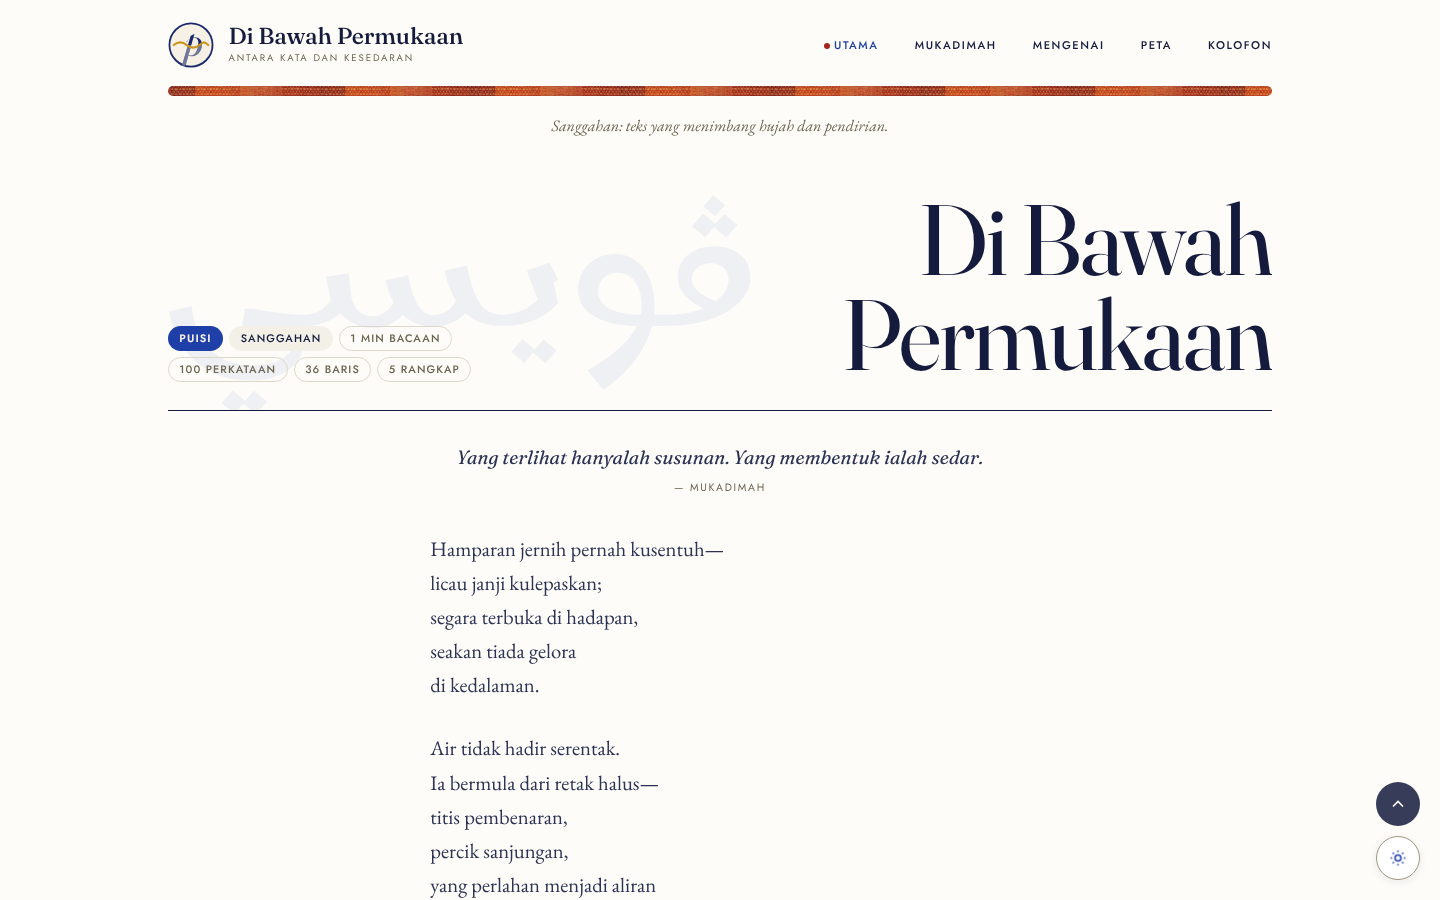
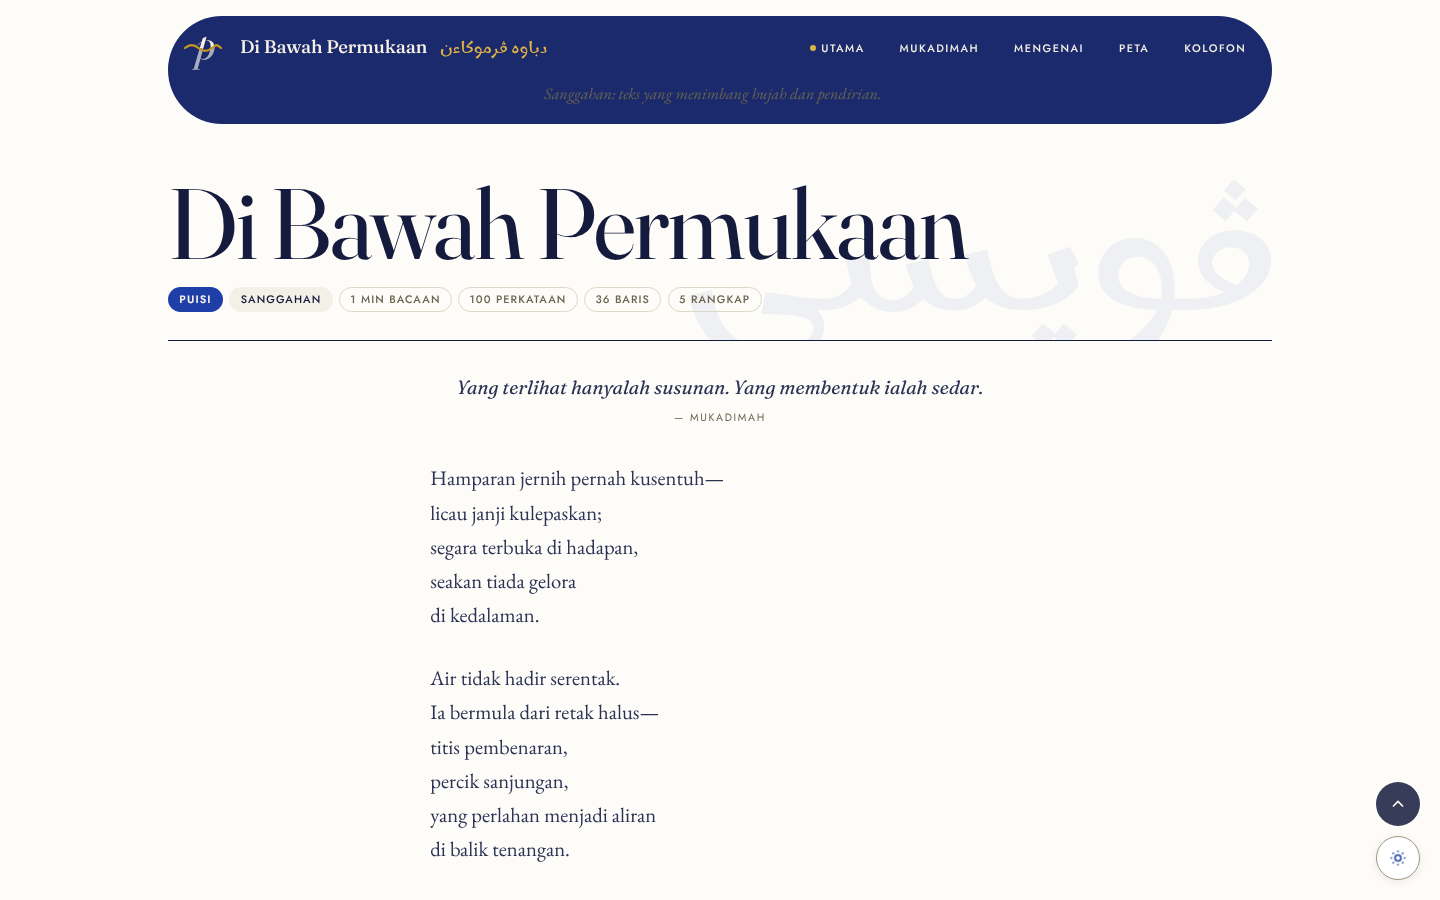
Header: indigo pill bar; left-align hero and work titles
The masthead is now a slim indigo pill (inverse mark, site name, Jawi,
text navigation with a gold dot) that brackets the page with the footer.
Hero and single-work titles are set left; the songket band is removed.

Claude-Session: https://claude.ai/code/session_01Er8Hpy67qX5wHknT6MnoT1

Changed region(s): [[0.0938, 0.1867, 0.9062, 0.4667], [0.0938, 0.0, 0.9062, 0.1556], [0.2812, 0.4978, 0.6875, 0.9956]]

diff --git a/assets/css/frontend.css b/assets/css/frontend.css
@@ -267,56 +267,59 @@ a:focus-visible, button:focus-visible { border-radius: var(--bwp-pill); }
 .bwp-main { display: block; }
 
 /* ═══════════════════════════════════════════════════════════
-   SITE HEADER — masthead: lockup | text nav, songket headband beneath
+   SITE HEADER — indigo pill bar (brackets the page with the footer)
+   lockup: mark · site name · Jawi  |  text nav with a gold dot
    ═══════════════════════════════════════════════════════════ */
 
 .bwp-site-header {
+    --h-ink: #f6f1e4; --h-dim: #c7bd9f; --h-gold: #e0b344;
     display: grid;
     grid-template-columns: 1fr auto;
-    grid-template-areas: "brand nav" "band band" "blurb blurb";
+    grid-template-areas: "brand nav" "blurb blurb";
     align-items: center;
     gap: 0 2rem;
-    padding: 1.4rem 0 0;
-    margin-bottom: clamp(2rem, 5vw, 3.25rem);
+    margin: 1rem 0 clamp(2rem, 5vw, 3.25rem);
+    padding: 0 1.6rem 0 .7rem;
+    min-height: 64px;
+    border-radius: var(--bwp-pill);
+    background: #1a2a6c;
+    color: var(--h-ink);
 }
-.bwp-brand { grid-area: brand; display: inline-flex; align-items: center; gap: .9rem; color: var(--bwp-text); padding-bottom: 1.1rem; }
-.bwp-brand:hover { color: var(--bwp-link); }
-.bwp-brand__mark { width: 46px; height: 46px; flex: none; }
-.bwp-brand__text { display: flex; flex-direction: column; gap: .15rem; }
+.bwp-brand { grid-area: brand; display: inline-flex; align-items: center; gap: .8rem; color: var(--h-ink); min-height: 64px; }
+.bwp-brand:hover { color: var(--h-gold); }
+.bwp-brand__mark { width: 48px; height: 48px; flex: none; }
+.bwp-brand__text { display: flex; align-items: baseline; gap: .8rem; flex-wrap: wrap; }
 .bwp-site-header__title {
     margin: 0;
     font-family: var(--bwp-font-display);
-    font-size: 1.45rem; font-weight: 500; letter-spacing: -.005em;
+    font-size: 1.15rem; font-weight: 500; letter-spacing: -.005em;
     line-height: 1; color: inherit;
 }
-.bwp-site-header__tagline { font-family: var(--bwp-font-ui); font-size: .6rem; letter-spacing: .2em; text-transform: uppercase; color: var(--bwp-muted); }
-.bwp-site-header__section { display: none; }
+.bwp-site-header__jawi { font-family: var(--bwp-font-jawi); font-size: 1rem; line-height: 1; color: var(--h-gold); }
+.bwp-site-header__tagline, .bwp-site-header__section, .bwp-site-header__band { display: none; }
 
 .bwp-nav-toggle { display: none; }
-.bwp-nav { grid-area: nav; align-self: center; padding-bottom: 1.1rem; }
-.bwp-nav__list { list-style: none; margin: 0; padding: 0; display: flex; flex-wrap: wrap; gap: .25rem 1.6rem; }
+.bwp-nav { grid-area: nav; }
+.bwp-nav__list { list-style: none; margin: 0; padding: 0; display: flex; flex-wrap: wrap; gap: 0 1.5rem; }
 .bwp-nav__list li { margin: 0; position: relative; }
 .bwp-nav__list a {
-    display: inline-flex; align-items: center; gap: .4em;
-    padding: .6em 0; min-height: 36px;
+    display: inline-flex; align-items: center; gap: .45em;
+    padding: 0; min-height: 44px;
     border: none; border-radius: 0; background: transparent;
-    font-family: var(--bwp-font-ui); font-size: .7rem; font-weight: 500; letter-spacing: .14em; text-transform: uppercase;
-    color: var(--bwp-text); white-space: nowrap;
+    font-family: var(--bwp-font-ui); font-size: .68rem; font-weight: 500; letter-spacing: .14em; text-transform: uppercase;
+    color: var(--h-ink); white-space: nowrap;
     transition: color .15s;
 }
-.bwp-nav__list a::before { content: ''; width: 6px; height: 6px; border-radius: 50%; background: var(--bwp-accent); opacity: 0; transform: scale(.4); transition: opacity .15s, transform .15s; }
-.bwp-nav__list a:hover { color: var(--bwp-link); }
+.bwp-nav__list a::before { content: ''; width: 6px; height: 6px; border-radius: 50%; background: var(--h-gold); opacity: 0; transform: scale(.4); transition: opacity .15s, transform .15s; }
+.bwp-nav__list a:hover { color: var(--h-gold); }
 .bwp-nav__list a:hover::before { opacity: .6; transform: none; }
-.bwp-nav__list .current-menu-item > a,
-.bwp-nav__list .current_page_item > a,
-.bwp-nav__list .current-menu-ancestor > a { color: var(--bwp-link); }
 .bwp-nav__list .current-menu-item > a::before,
 .bwp-nav__list .current_page_item > a::before,
-.bwp-nav__list .current-menu-ancestor > a::before { opacity: 1; transform: none; background: var(--bwp-rubric); }
+.bwp-nav__list .current-menu-ancestor > a::before { opacity: 1; transform: none; }
 
 /* dropdowns */
 .bwp-nav__list .sub-menu {
-    display: none; position: absolute; top: calc(100% + 4px); left: -1rem;
+    display: none; position: absolute; top: calc(100% + 2px); left: -1rem;
     min-width: 12em; margin: 0; padding: 6px; list-style: none;
     background: var(--bwp-bg-raised); border: 1px solid var(--bwp-border);
     border-radius: var(--bwp-radius); box-shadow: var(--bwp-shadow-lg);
@@ -325,21 +328,15 @@ a:focus-visible, button:focus-visible { border-radius: var(--bwp-pill); }
 .bwp-nav__list li:hover > .sub-menu,
 .bwp-nav__list li:focus-within > .sub-menu,
 .bwp-nav__list li[data-touch-open="1"] > .sub-menu { display: block; }
-.bwp-nav__list .sub-menu a { display: flex; width: 100%; white-space: normal; padding: .6em 1rem; border-radius: var(--bwp-radius-sm); }
-.bwp-nav__list .sub-menu a:hover { background: var(--bwp-bg-subtle); }
-
-/* songket headband — a woven rule under the masthead (public-domain textile, see assets/img/textures/CREDITS.txt) */
-.bwp-site-header__band {
-    grid-area: band; height: 10px; border-radius: var(--bwp-pill);
-    background: url('../img/textures/songket-band.jpg') center / auto 100% repeat-x;
-    box-shadow: inset 0 0 0 1px rgba(21, 27, 61, .08);
-}
+.bwp-nav__list .sub-menu a { display: flex; width: 100%; white-space: normal; padding: .6em 1rem; border-radius: var(--bwp-radius-sm); color: var(--bwp-text); min-height: 40px; }
+.bwp-nav__list .sub-menu a::before { display: none; }
+.bwp-nav__list .sub-menu a:hover { background: var(--bwp-bg-subtle); color: var(--bwp-link); }
 
 /* category blurb under the header on single works */
 .bwp-chapter-blurb {
     grid-area: blurb;
     max-width: var(--bwp-measure);
-    margin: 1rem auto 0;
+    margin: 0 auto; padding: 0 1rem 1rem; color: var(--h-dim);
     font-style: italic; font-size: 1rem; text-align: center;
     color: var(--bwp-muted);
 }
@@ -390,8 +387,8 @@ a:focus-visible, button:focus-visible { border-radius: var(--bwp-pill); }
 }
 .bwp-book-title__meta span + span::before { content: '·'; margin: 0 .6em; color: var(--bwp-accent); }
 @media screen and (min-width: 52em) {
-    .bwp-book-title__name { grid-column: 3 / span 10; text-align: right; }
-    .bwp-book-title__desc { grid-column: 1 / span 7; grid-row: 2; align-self: end; }
+    .bwp-book-title__name { grid-column: 1 / span 10; }
+    .bwp-book-title__desc { grid-column: 1 / span 7; grid-row: 2; }
     .bwp-book-title__meta { grid-column: 1 / span 7; grid-row: 3; }
     .bwp-book-title__jawi { right: 0; top: 50%; transform: translateY(-58%); font-size: clamp(6rem, 12vw, 10.5rem); }
 }
@@ -623,8 +620,9 @@ body.bwp-toc-masonry .bwp-toc__item { width: 49%; margin-bottom: .75rem; }
     text-wrap: balance;
 }
 @media screen and (min-width: 52em) {
-    .bwp-work__meta  { grid-column: 1 / span 4; align-self: end; }
-    .bwp-work__title { grid-column: 5 / span 8; text-align: right; }
+    .bwp-work__meta  { grid-column: 1 / span 12; order: 2; flex-direction: row; align-items: center; flex-wrap: wrap; gap: .7rem 1rem; }
+    .bwp-work__title { grid-column: 1 / span 11; order: 1; }
+    .bwp-work__opening[data-jawi]::before { left: auto; right: -.05em; }
 }
 
 /* analytics bar → chips */
@@ -1194,30 +1192,33 @@ html.bwp-night .bwp-badge--karmina, body.bwp-night .bwp-badge--karmina { color: 
 
     .bwp-site-header {
         grid-template-columns: 1fr auto;
-        grid-template-areas: "brand toggle" "nav nav" "band band" "blurb blurb";
-        gap: 0 1rem;
-        padding-top: 1rem;
-        margin-bottom: 1.75rem;
+        grid-template-areas: "brand toggle" "nav nav" "blurb blurb";
+        gap: 0 .75rem;
+        margin: .75rem 0 1.75rem;
+        padding: 0 .6rem 0 .5rem;
+        min-height: 56px;
+        border-radius: 28px;
     }
-    .bwp-brand { padding-bottom: .9rem; }
-    .bwp-brand__mark { width: 38px; height: 38px; }
-    .bwp-site-header__title { font-size: 1.2rem; }
-    .bwp-site-header__tagline { display: none; }
+    .bwp-brand { min-height: 56px; gap: .6rem; }
+    .bwp-brand__mark { width: 40px; height: 40px; }
+    .bwp-site-header__title { font-size: 1.02rem; }
+    .bwp-site-header__jawi { display: none; }
 
     .bwp-nav-toggle {
-        grid-area: toggle; align-self: center; margin-bottom: .9rem;
+        grid-area: toggle; align-self: center;
         display: inline-flex; align-items: center; gap: .5em;
-        min-height: 40px; padding: 0 1.1em;
-        border: none; border-radius: var(--bwp-pill);
-        background: var(--bwp-text); color: var(--bwp-on-ink);
-        font-family: var(--bwp-font-ui); font-size: .66rem; font-weight: 600; letter-spacing: .12em; text-transform: uppercase;
+        min-height: 38px; padding: 0 1em;
+        border: 1px solid rgba(246, 241, 228, .35); border-radius: var(--bwp-pill);
+        background: transparent; color: var(--h-ink);
+        font-family: var(--bwp-font-ui); font-size: .64rem; font-weight: 600; letter-spacing: .12em; text-transform: uppercase;
         cursor: pointer;
     }
-    .bwp-nav { grid-area: nav; display: none; padding-bottom: 1rem; }
+    .bwp-nav { grid-area: nav; display: none; padding: 0 .4rem .6rem; }
     .bwp-nav.is-open { display: block; }
-    .bwp-nav__list { flex-direction: column; gap: 0; padding: 6px; border-radius: var(--bwp-radius); background: var(--bwp-bg-subtle); }
-    .bwp-nav__list a { width: 100%; min-height: 44px; padding: .8em 1rem; }
+    .bwp-nav__list { flex-direction: column; gap: 0; padding: 4px 0 0; border-top: 1px solid rgba(246, 241, 228, .18); }
+    .bwp-nav__list a { width: 100%; min-height: 44px; padding: 0 .6rem; }
     .bwp-nav__list .sub-menu { position: static; display: block; box-shadow: none; border: none; background: transparent; padding: 0 0 0 1rem; }
+    .bwp-nav__list .sub-menu a { color: var(--h-ink); }
 
     .bwp-book-title { padding-top: .5rem; }
     .bwp-book-title__name { font-size: clamp(2.6rem, 13vw, 3.6rem); }

diff --git a/header.php b/header.php
@@ -53,12 +53,12 @@
             <?php if ( has_custom_logo() ) : ?>
                 <?php echo wp_get_attachment_image( get_theme_mod( 'custom_logo' ), 'thumbnail', false, array( 'class' => 'bwp-brand__mark', 'alt' => '' ) ); ?>
             <?php else : ?>
-                <img class="bwp-brand__mark" src="<?php echo esc_url( BOOK_WP_URI . '/assets/img/brand/mark.svg' ); ?>" alt="" width="46" height="46" decoding="async">
+                <img class="bwp-brand__mark" src="<?php echo esc_url( BOOK_WP_URI . '/assets/img/brand/mark-inverse.svg' ); ?>" alt="" width="48" height="48" decoding="async">
             <?php endif; ?>
             <span class="bwp-brand__text">
                 <h2 class="bwp-site-header__title"><?php echo esc_html( $bwp_site_name ); ?></h2>
-                <?php if ( get_bloginfo( 'description' ) ) : ?>
-                <span class="bwp-site-header__tagline"><?php bloginfo( 'description' ); ?></span>
+                <?php $bwp_jawi_head = get_option( 'book_wp_jawi_name', '' ); if ( $bwp_jawi_head ) : ?>
+                <span class="bwp-site-header__jawi" dir="rtl" lang="ms-Arab"><?php echo esc_html( $bwp_jawi_head ); ?></span>
                 <?php endif; ?>
             </span>
         </a>
@@ -78,8 +78,6 @@
             ) ); ?>
         </nav>
         <?php endif; ?>
-
-        <span class="bwp-site-header__band" aria-hidden="true"></span>
 
         <?php if ( is_single() ) : ?>
             <?php
